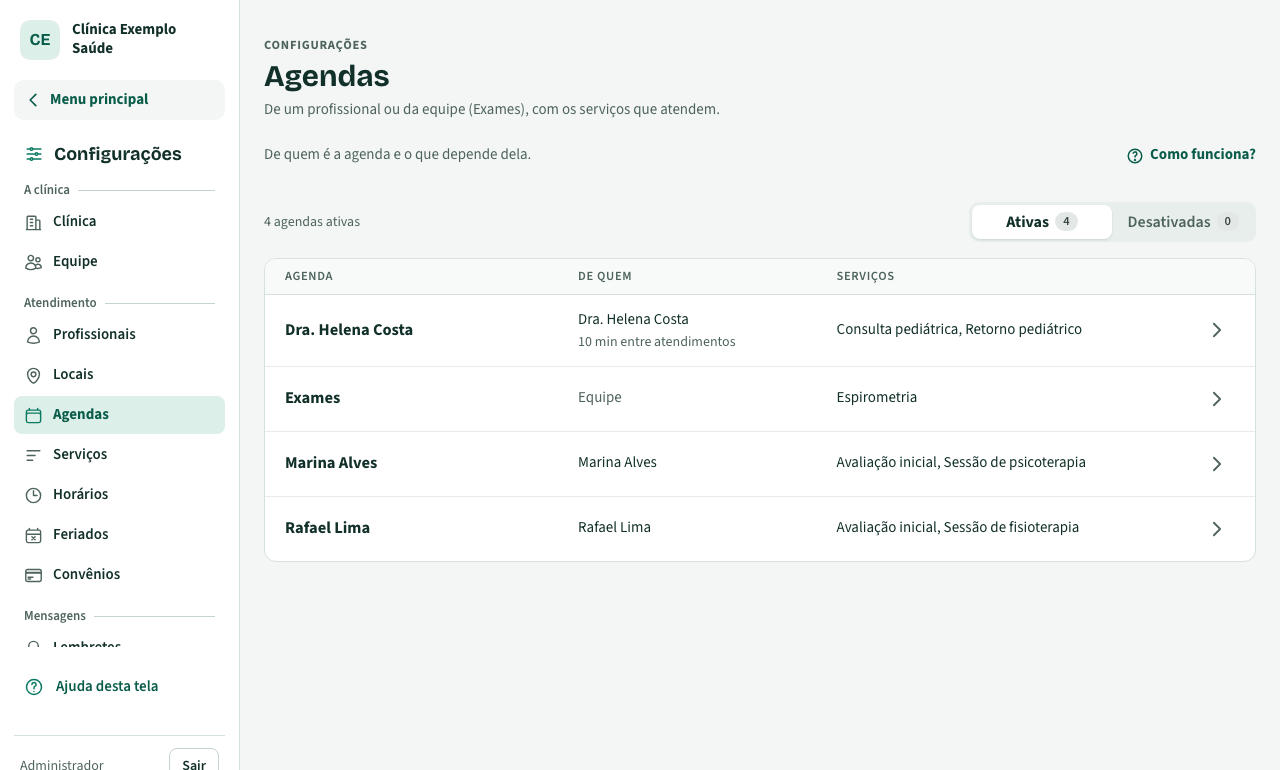
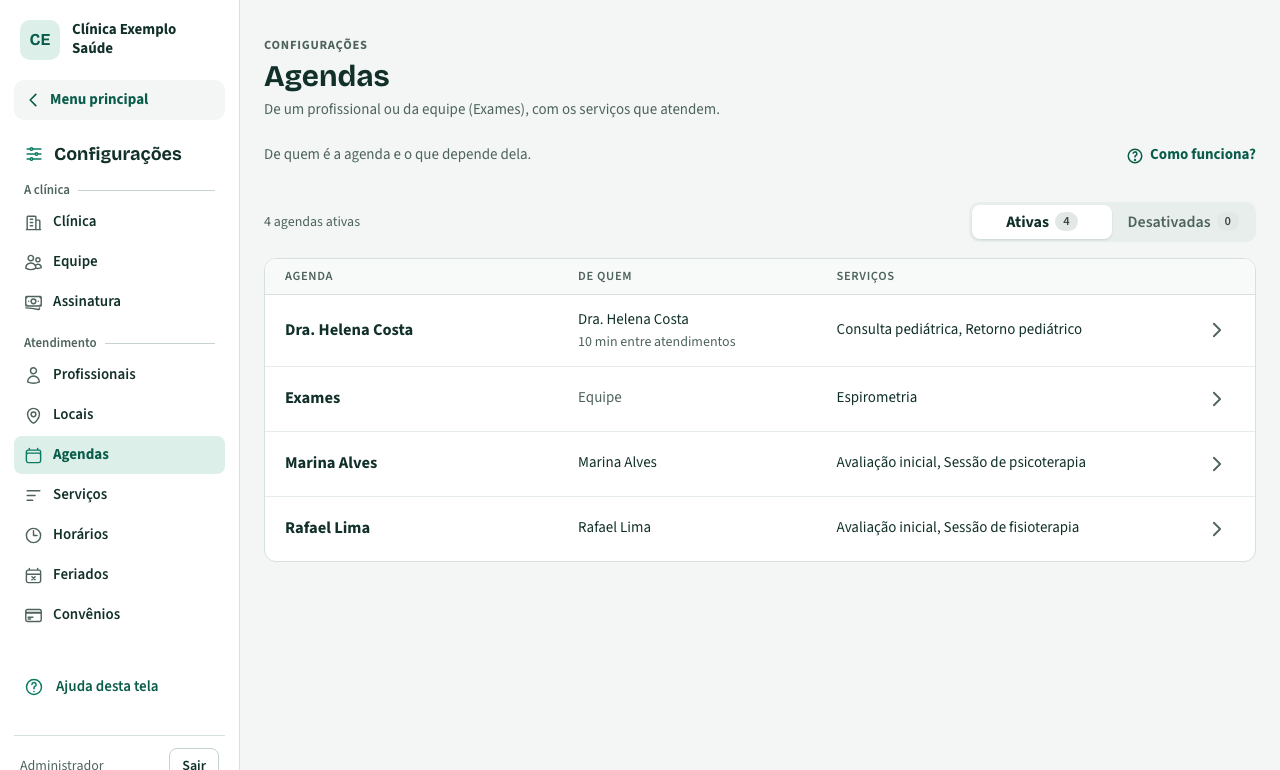
Capturas da Central de Ajuda refeitas: menu de Configurações com a Assinatura (13 telas)

Changed region(s): [[0.0, 0.374, 0.1875, 0.6545], [0.0, 0.6857, 0.0938, 0.7481], [0.0, 0.7792, 0.0938, 0.8416]]

diff --git a/docs/capturas-pendentes.md b/docs/capturas-pendentes.md
@@ -9,16 +9,4 @@ a captura e o motivo, avisar o cliente no fim da etapa e esperar a autorização
 
 ## Pendentes
 
-- `config-clinica` — item "Assinatura" novo no grupo "A clínica" do menu de Configurações (faturamento na main, 07/11/2026)
-- `config-profissionais` — item "Assinatura" novo no grupo "A clínica" do menu de Configurações (faturamento na main, 07/11/2026)
-- `config-locais` — item "Assinatura" novo no grupo "A clínica" do menu de Configurações (faturamento na main, 07/11/2026)
-- `config-agendas` — item "Assinatura" novo no grupo "A clínica" do menu de Configurações (faturamento na main, 07/11/2026)
-- `config-servicos` — item "Assinatura" novo no grupo "A clínica" do menu de Configurações (faturamento na main, 07/11/2026)
-- `config-horarios` — item "Assinatura" novo no grupo "A clínica" do menu de Configurações (faturamento na main, 07/11/2026)
-- `config-feriados` — item "Assinatura" novo no grupo "A clínica" do menu de Configurações (faturamento na main, 07/11/2026)
-- `config-convenios` — item "Assinatura" novo no grupo "A clínica" do menu de Configurações (faturamento na main, 07/11/2026)
-- `config-lembretes` — item "Assinatura" novo no grupo "A clínica" do menu de Configurações (faturamento na main, 07/11/2026)
-- `config-mensagens` — item "Assinatura" novo no grupo "A clínica" do menu de Configurações (faturamento na main, 07/11/2026)
-- `config-whatsapp` — item "Assinatura" novo no grupo "A clínica" do menu de Configurações (faturamento na main, 07/11/2026)
-- `config-nota-fiscal` — item "Assinatura" novo no grupo "A clínica" do menu de Configurações (faturamento na main, 07/11/2026)
-- `equipe` — item "Assinatura" novo no grupo "A clínica" do menu de Configurações (faturamento na main, 07/11/2026)
+(nenhuma)
